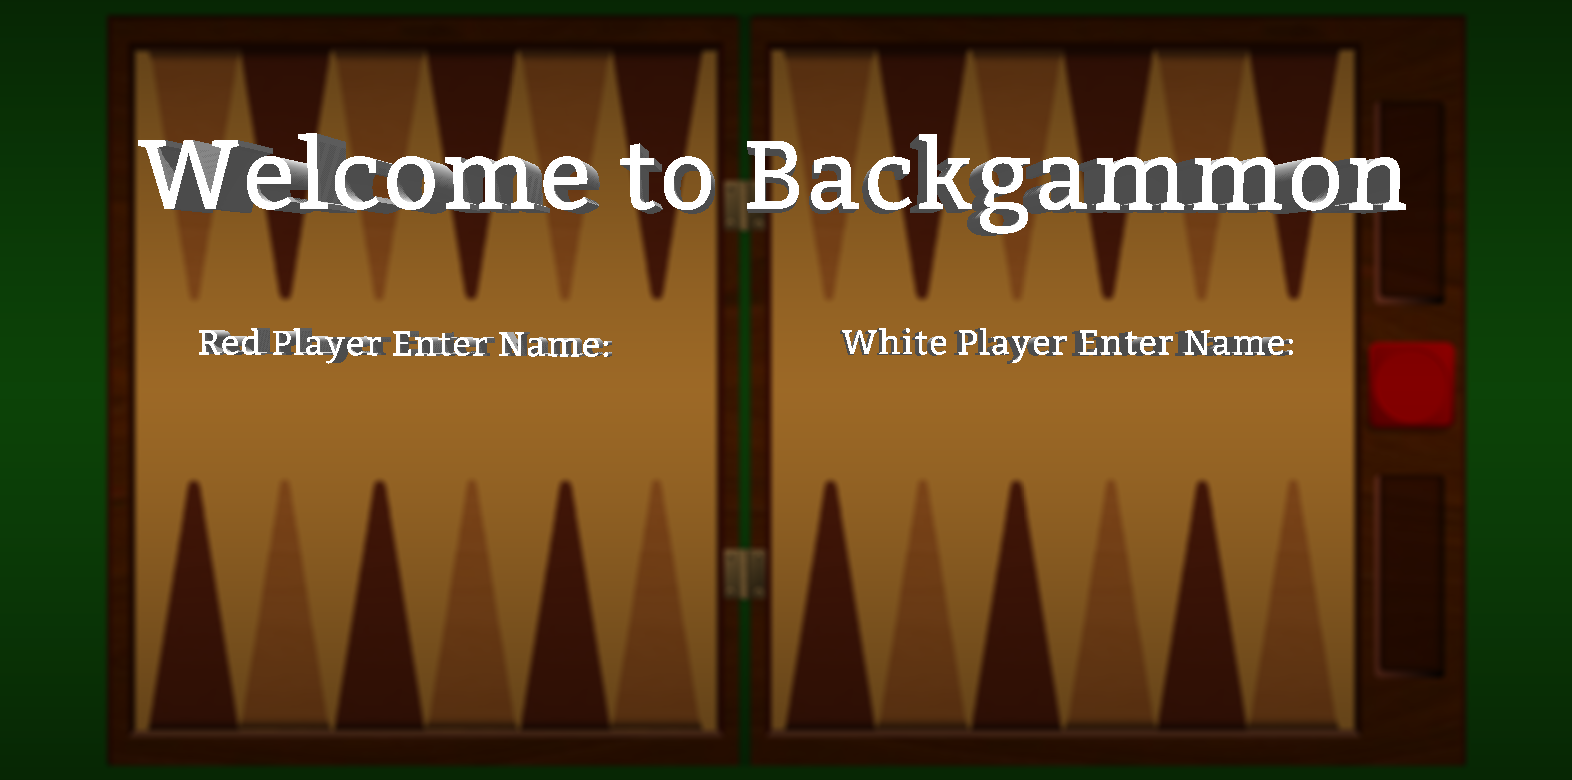
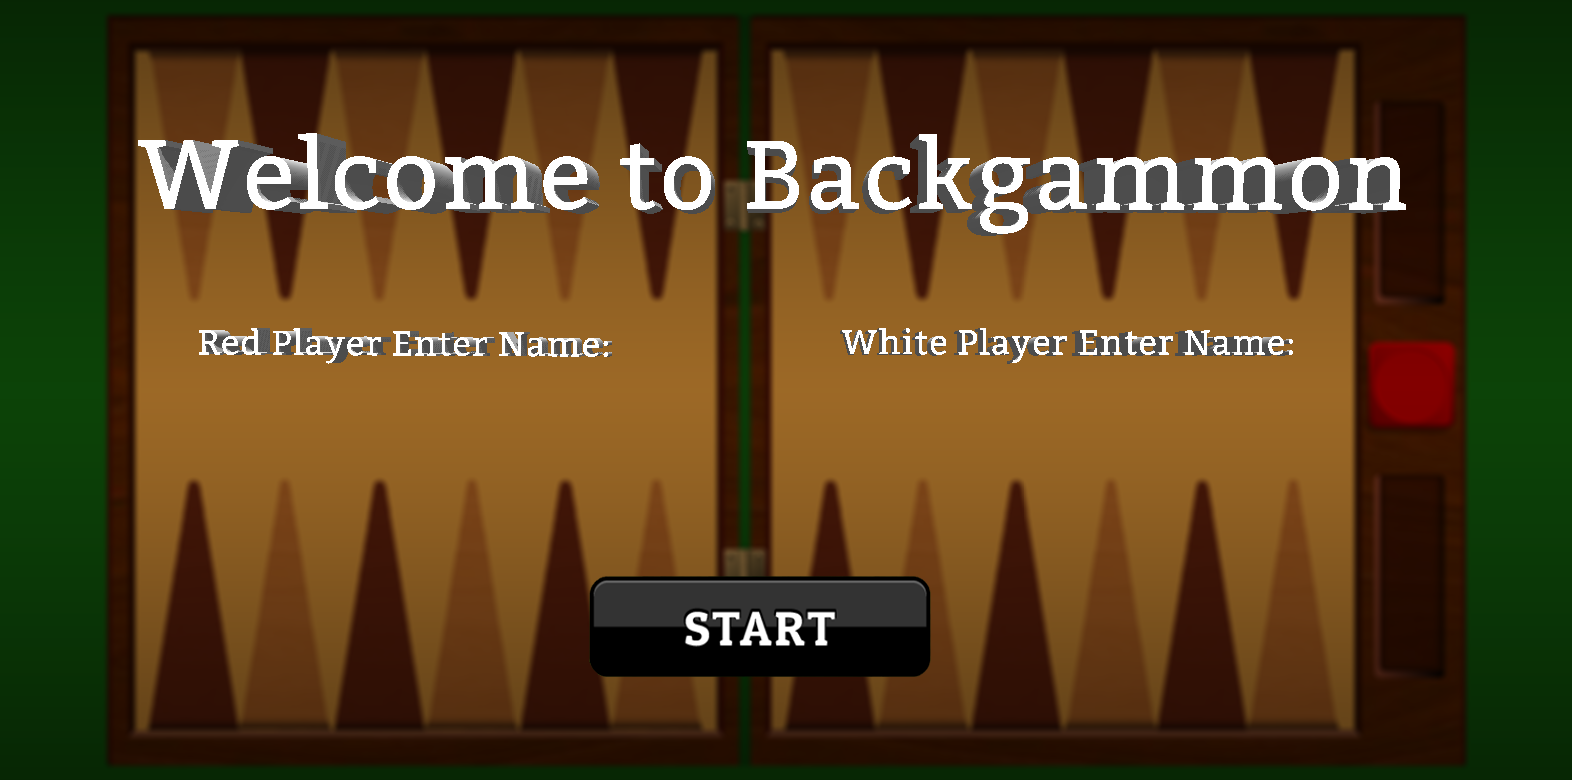
Finished implementation of the intro menu. I think the name of players are not being saved

Changed region(s): [[0.374, 0.7385, 0.5922, 0.8923]]

diff --git a/src/UI.java b/src/UI.java
@@ -180,7 +180,6 @@ public class UI {
 
                 //make sure new text is visible, even if there was a selection in message box
                 messagePanelText.setCaretPosition(messagePanelText.getDocument().getLength());
-
             }
 
         });
@@ -277,12 +276,48 @@ public class UI {
 
             JButton startButton = new JButton();
             startButton.setLayout(null);
-            startButton.setBounds(100, 100, 320, 50);
+            startButton.setBounds(589, 576, 342, 101);
+            startButton.setOpaque(false);
+            startButton.setContentAreaFilled(false);
+            startButton.setBorderPainted(false);
 
             startButton.addActionListener(new ActionListener() {
                 @Override
                 public void actionPerformed(ActionEvent e) {
+//                    System.exit(0);
+                    initializeUI();
+                }
+            });
 
+            JTextField redPlayer = new JTextField();
+            redPlayer.setFont(new Font("Serif", Font.PLAIN, 27));
+            redPlayer.setBorder(BorderFactory.createLineBorder(Color.BLACK));
+            redPlayer.setBounds(196,374, 418, 35);
+            mainPanel.add(redPlayer);
+
+            redPlayer.addActionListener(new ActionListener() {
+                String name = new String();
+
+                @Override
+                public void actionPerformed(ActionEvent e) {
+                    name = redPlayer.getText();
+                    Backgammon.player1.setPlayerName(name);
+                }
+            });
+
+            JTextField whitePlayer = new JTextField();
+            whitePlayer.setFont(new Font("Serif", Font.PLAIN, 27));
+            whitePlayer.setBorder(BorderFactory.createLineBorder(Color.BLACK));
+            whitePlayer.setBounds(838,374, 457, 35);
+            mainPanel.add(whitePlayer);
+
+            whitePlayer.addActionListener(new ActionListener() {
+                String name = new String();
+
+                @Override
+                public void actionPerformed(ActionEvent e) {
+                    name = whitePlayer.getText();
+                    Backgammon.player2.setPlayerName(name);
                 }
             });
 

diff --git a/src/Player.java b/src/Player.java
@@ -26,11 +26,9 @@ public class Player {
                 if(Backgammon.counterMap[nextPosition].getColor() == Backgammon.currentPlayer.getPlayerColor() || Backgammon.counterMap[nextPosition].getColor() == 'B' || Backgammon.counterMap[nextPosition].getNumCounters() < 2){
                     playerMove(currentPosition, nextPosition);
                     UI.rePaintMainPanel();
-
                 }
             }
         }
-
     }
 
     private void setColorString(){
@@ -57,7 +55,6 @@ public class Player {
         }
     }
 
-
     public void setPlayerName(String playerName) {
         this.playerName = playerName;
     }
@@ -73,8 +70,6 @@ public class Player {
     public void setMoveMade(boolean moveMade) {
         this.moveMade = moveMade;
     }
-
-
 
     public boolean isMoveMade() {
         return moveMade;

diff --git a/src/Backgammon.java b/src/Backgammon.java
@@ -17,7 +17,8 @@ public class Backgammon
     public static void main(String [] args)
     {
         initializeBoard();
-        UI.initializeUI();
+//        UI.initializeUI();
+        UI.mainMenuUI();
         Dice.initialDiceRoll();
     }
 
